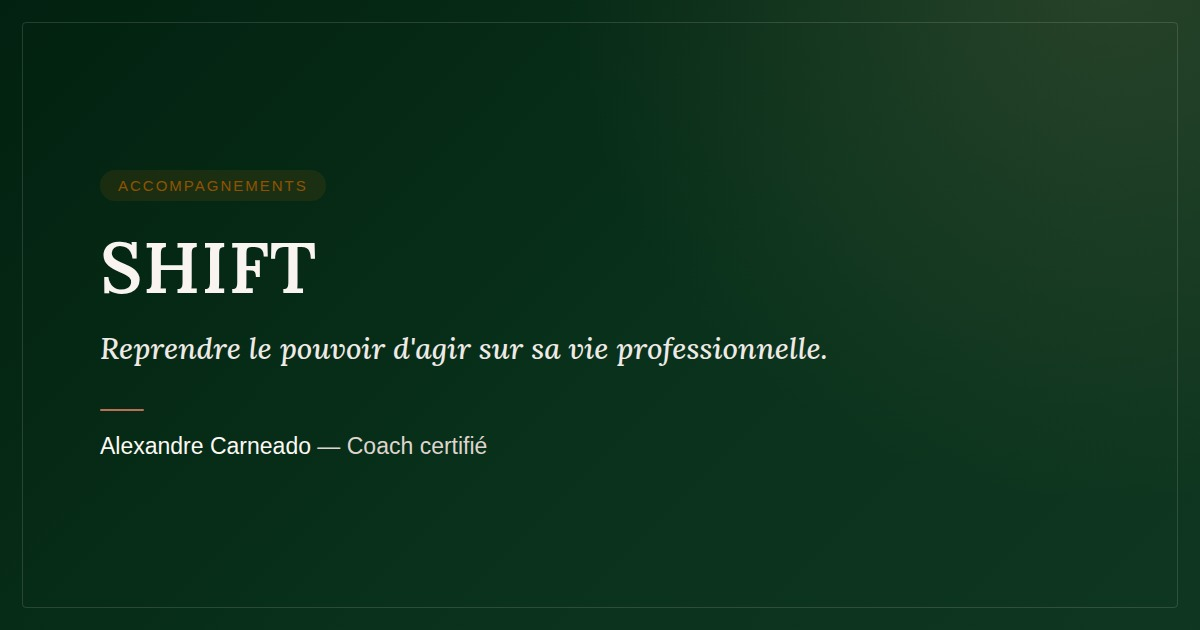
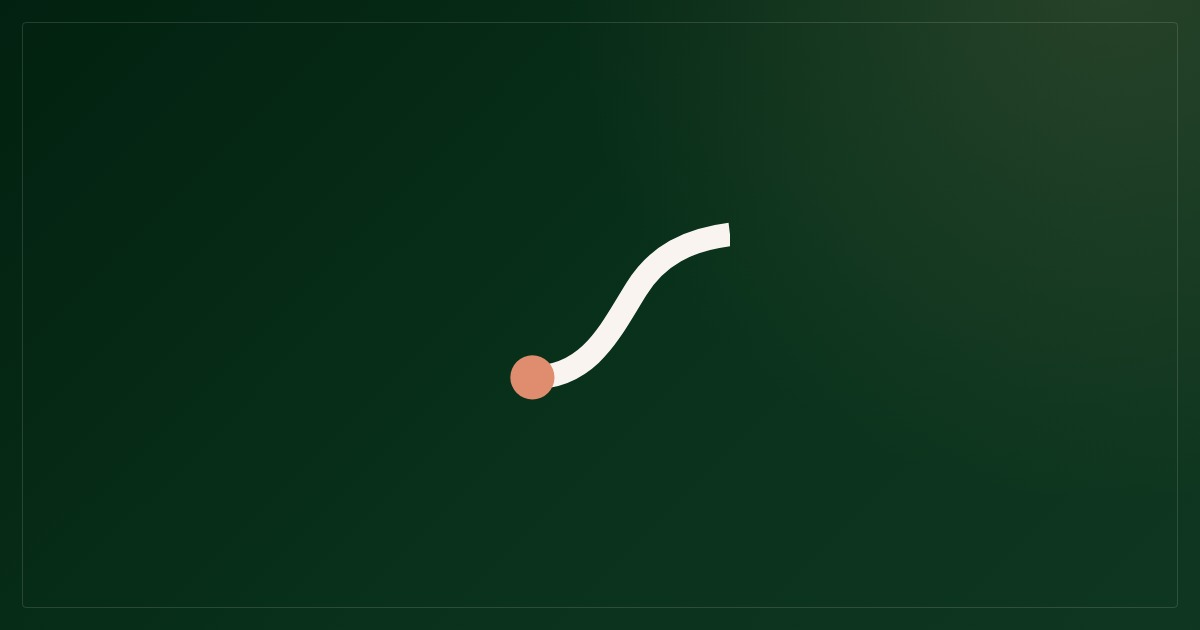
Image de partage : symbole SHIFT seul, sans texte
Le titre et la description de partage portent déjà le nom et l'accroche ;
l'image (identique sur toutes les pages, seul le titre/description varie
par page) se limite maintenant au symbole de marque sur le fond vert
dégradé, plutôt qu'un wordmark + tagline + byline qui répétait ce texte.

Claude-Session: https://claude.ai/code/session_0151HwDCqzMYu7vmTg4VdBtQ

diff --git a/scripts/og-image.html b/scripts/og-image.html
@@ -3,8 +3,6 @@
 <head>
 <meta charset="utf-8" />
 <style>
-  @import url('https://fonts.googleapis.com/css2?family=Lora:ital,wght@0,500;0,600;1,500&family=IBM+Plex+Sans:wght@400;500&display=swap');
-
   * { margin: 0; padding: 0; box-sizing: border-box; }
 
   html, body {
@@ -19,12 +17,10 @@
     background:
       radial-gradient(circle at 92% -6%, oklch(0.72 0.08 70 / 0.16) 0%, transparent 42%),
       linear-gradient(135deg, oklch(0.22 0.05 155) 0%, oklch(0.28 0.06 155) 55%, oklch(0.30 0.06 155) 100%);
-    font-family: "IBM Plex Sans", sans-serif;
     position: relative;
     display: flex;
-    flex-direction: column;
+    align-items: center;
     justify-content: center;
-    padding: 84px 100px;
   }
 
   /* Liseré fin, pleine bordure, pour un rendu plus "carte" qu'aplat brut */
@@ -34,77 +30,22 @@
     border: 1px solid oklch(0.97 0.008 60 / 0.14);
     border-radius: 4px;
   }
-
-  .eyebrow {
-    display: inline-flex;
-    align-items: center;
-    align-self: flex-start;
-    font-family: "IBM Plex Sans", sans-serif;
-    font-weight: 500;
-    font-size: 15px;
-    letter-spacing: 2px;
-    text-transform: uppercase;
-    color: oklch(0.5 0.13 70);
-    background: oklch(0.5 0.13 70 / 0.16);
-    border-radius: 999px;
-    padding: 7px 18px;
-    margin-bottom: 30px;
-  }
-
-  .wordmark {
-    font-family: "Lora", serif;
-    font-weight: 600;
-    font-size: 72px;
-    letter-spacing: 0.01em;
-    color: oklch(0.97 0.008 60);
-    line-height: 1;
-    margin-bottom: 24px;
-  }
-
-  .tagline {
-    font-family: "Lora", serif;
-    font-weight: 500;
-    font-style: italic;
-    font-size: 30px;
-    line-height: 1.4;
-    color: oklch(0.94 0.008 60);
-    max-width: 780px;
-    margin-bottom: 40px;
-  }
-
-  .rule {
-    width: 44px;
-    height: 2px;
-    border-radius: 999px;
-    background: oklch(0.62 0.10 40);
-    margin-bottom: 22px;
-  }
-
-  .byline {
-    font-family: "IBM Plex Sans", sans-serif;
-    font-size: 23px;
-    color: oklch(0.88 0.015 60);
-  }
-
-  .byline b {
-    font-weight: 500;
-    color: oklch(0.98 0.006 60);
-  }
 </style>
 </head>
 <body>
   <div class="frame"></div>
-  <p class="eyebrow" id="eyebrow">__LABEL__</p>
-  <div class="wordmark">SHIFT</div>
-  <div class="tagline">Reprendre le pouvoir d&apos;agir sur sa vie professionnelle.</div>
-  <div class="rule"></div>
-  <p class="byline"><b>Alexandre Carneado</b> — Coach certifié</p>
-  <script>
-    // Étiquette de section masquée si vide (rendu Accueil / défaut).
-    var eyebrow = document.getElementById("eyebrow");
-    if (!eyebrow.textContent || eyebrow.textContent.trim() === "" || eyebrow.textContent === "__LABEL__") {
-      eyebrow.style.display = "none";
-    }
-  </script>
+  <!-- Symbole de marque seul : le titre/description du partage porte déjà
+       le nom et l'accroche, l'image n'a plus besoin de les répéter.
+       Géométrie identique à components/ShiftLogo.js (variante "reversed"). -->
+  <svg width="260" height="260" viewBox="0 0 100 100">
+    <path
+      d="M24 74 C46 74 54 56 64 40 C72 27 84 21 100 19"
+      fill="none"
+      stroke="oklch(0.97 0.008 60)"
+      stroke-width="9"
+      stroke-linecap="butt"
+    />
+    <circle cx="24" cy="74" r="8.5" fill="oklch(0.72 0.11 40)" />
+  </svg>
 </body>
 </html>

diff --git a/scripts/generate-og-images.js b/scripts/generate-og-images.js
@@ -1,6 +1,7 @@
-// Génère les images Open Graph (1200×630) de chaque page à partir du
-// template scripts/og-image.html, en remplaçant __LABEL__ par l'étiquette
-// de section. Sortie : public/images/og/<slug>.jpg.
+// Génère l'image Open Graph (1200×630, symbole SHIFT seul — voir
+// scripts/og-image.html) et la duplique pour chaque page : le visuel est
+// volontairement identique partout, seul le titre/description de partage
+// varie par page (voir lib/site.js). Sortie : public/images/og/<slug>.jpg.
 //
 // Usage : node scripts/generate-og-images.js
 // (nécessite playwright — déjà en devDependency le temps de générer les
@@ -12,25 +13,21 @@ const path = require("path");
 
 const TEMPLATE_PATH = path.resolve(__dirname, "og-image.html");
 const OUT_DIR = path.resolve(__dirname, "../public/images/og");
-const TMP_DIR = path.resolve(__dirname, ".tmp-og");
 
-// slug = nom de fichier de sortie ; label = étiquette affichée (vide = masquée, cas Accueil).
-const PAGES = [
-  { slug: "accueil", label: "" },
-  { slug: "accompagnements", label: "Accompagnements" },
-  { slug: "coaching-individuel", label: "Coaching individuel" },
-  { slug: "formations", label: "Formations" },
-  { slug: "atelier-theatre", label: "Atelier théâtre" },
-  { slug: "diagnostic", label: "Diagnostic" },
-  { slug: "le-declic", label: "Le Déclic" },
-  { slug: "ressources", label: "Ressources" },
-  { slug: "rendez-vous", label: "Prendre rendez-vous" },
+const SLUGS = [
+  "accueil",
+  "accompagnements",
+  "coaching-individuel",
+  "formations",
+  "atelier-theatre",
+  "diagnostic",
+  "le-declic",
+  "ressources",
+  "rendez-vous",
 ];
 
 async function main() {
-  const template = fs.readFileSync(TEMPLATE_PATH, "utf8");
   fs.mkdirSync(OUT_DIR, { recursive: true });
-  fs.mkdirSync(TMP_DIR, { recursive: true });
 
   // executablePath n'est utile que dans certains environnements sandboxés où
   // Chromium est préinstallé à un chemin fixe (PLAYWRIGHT_BROWSERS_PATH) ; en
@@ -39,21 +36,18 @@ async function main() {
   const launchOptions = fs.existsSync(sandboxChromium) ? { executablePath: sandboxChromium } : {};
   const browser = await chromium.launch(launchOptions);
   const page = await browser.newPage({ viewport: { width: 1200, height: 630 } });
+  await page.goto("file://" + TEMPLATE_PATH);
 
-  for (const { slug, label } of PAGES) {
-    const html = template.replace("__LABEL__", label);
-    const tmpFile = path.join(TMP_DIR, `${slug}.html`);
-    fs.writeFileSync(tmpFile, html, "utf8");
+  const renderedFile = path.join(OUT_DIR, "accueil.jpg");
+  await page.screenshot({ path: renderedFile, type: "jpeg", quality: 92 });
 
-    await page.goto("file://" + tmpFile);
-    await page.waitForTimeout(500); // laisse le temps aux web fonts de s'appliquer
+  for (const slug of SLUGS) {
     const outFile = path.join(OUT_DIR, `${slug}.jpg`);
-    await page.screenshot({ path: outFile, type: "jpeg", quality: 92 });
+    if (outFile !== renderedFile) fs.copyFileSync(renderedFile, outFile);
     console.log("✓", path.relative(process.cwd(), outFile));
   }
 
   await browser.close();
-  fs.rmSync(TMP_DIR, { recursive: true, force: true });
 }
 
 main().catch((err) => {
